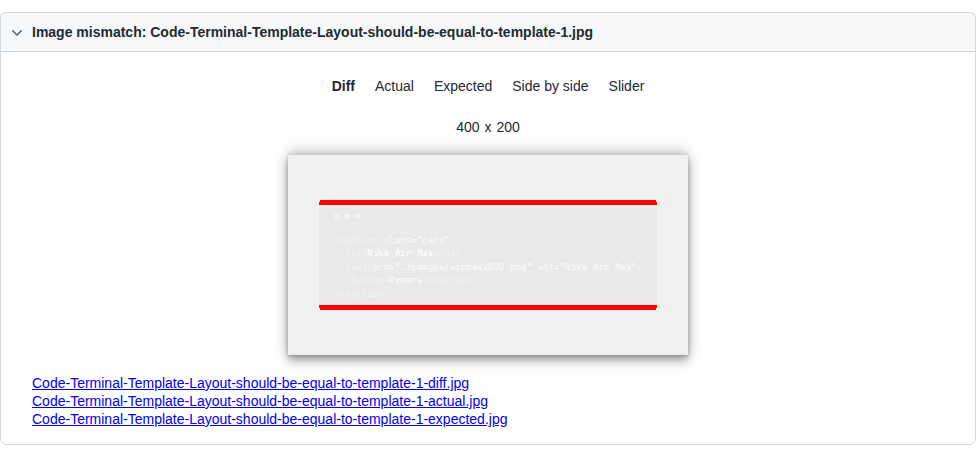
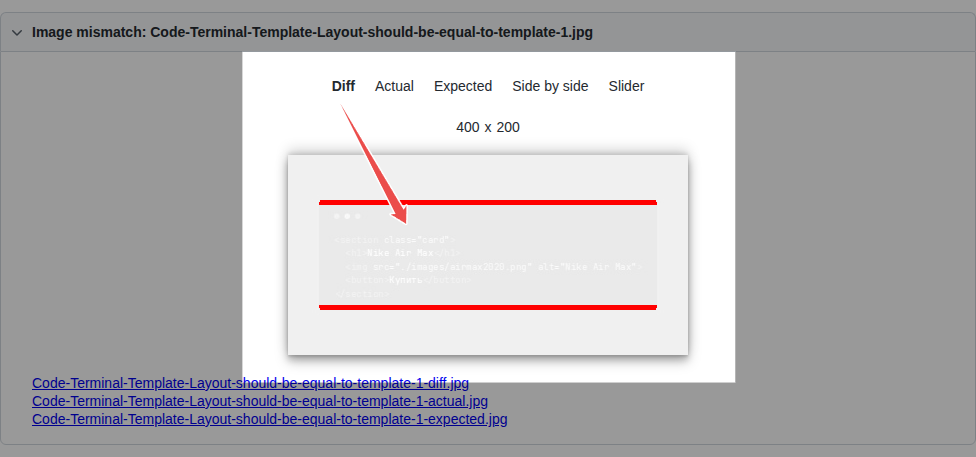
docs(docs): размеченные кадры для статьи про скриншотные тесты

diff --git a/docs/code-and-test-errors/kak-chitat-skrinshotnye-testy.md b/docs/code-and-test-errors/kak-chitat-skrinshotnye-testy.md
@@ -8,7 +8,6 @@ title: "Как читать скриншотные тесты"
 
 Проверка упражнения по вёрстке упала, и во вкладке «Вывод» написано, сколько пикселей не совпало, например `3372 pixels (ratio 0.05 of all image pixels) are different`. Какие именно пиксели разошлись, текст не показывает. Их видно в отчёте о тестах, который открывается пунктом «Отчет (Тесты)» в правой колонке страницы упражнения.
 
-{/* аннотировать: обвести пункт «Отчет (Тесты)» в правой колонке */}
 ![Страница упражнения по вёрстке, в правой колонке пункт «Отчет (Тесты)» с подписью «Визуализация прогона»](/img/docs/img-216--screenshot-tests-report-menu.png)
 
 Скриншотный тест открывает вашу страницу в браузере и снимает её. Снимок он сравнивает пиксель за пикселем с эталоном, то есть со снимком решения учителя. Небольшую разницу тест прощает, потому что сглаживание краёв и шрифтов даёт шум в несколько пикселей даже на одинаковой вёрстке. Если разница больше, проверка падает.
@@ -29,7 +28,6 @@ Error: стили не подключились: проверьте <link> на 
 
 Если ошибка сообщает, сколько пикселей не совпало, откройте «Отчет (Тесты)». Это отчёт Playwright, инструмента, который запускает тесты. Вверху отчёта список тестов, упавший помечен красным крестиком, а значок картинки рядом означает, что к тесту приложены снимки.
 
-{/* аннотировать: обвести упавший тест с красным крестиком и значок картинки под ним */}
 ![Отчёт о тестах, в списке один упавший тест со значком приложенных снимков](/img/docs/img-217--screenshot-tests-report-list.png)
 
 Щелчок по тесту открывает его страницу. Внизу страницы блок Image mismatch, в нём снимки и переключатель между ними.
@@ -39,7 +37,6 @@ Error: стили не подключились: проверьте <link> на 
 - **Diff** показывает разницу между ними. Разошедшиеся пиксели подсвечены красным.
 - **Side by side** ставит Expected и Actual рядом, а **Slider** накладывает их друг на друга со шторкой, которую можно двигать.
 
-{/* аннотировать: обвести переключатель Diff, Actual, Expected и красные полосы на снимке */}
 ![Блок Image mismatch на вкладке Diff, красным подсвечены полосы у верхнего и нижнего края терминала](/img/docs/img-218--screenshot-tests-diff.png)
 
 Начинать удобно с Diff. На снимке выше красные полосы идут вдоль верхнего и нижнего края терминала, при этом содержимое внутри совпало. Значит, блок получился ниже эталона, и искать надо в его вертикальных отступах. В этом примере вместо 20 пикселей сверху и снизу стоит 10. Чтобы понять, в какую сторону разошлась вёрстка, переключитесь на Actual и Expected по очереди.
